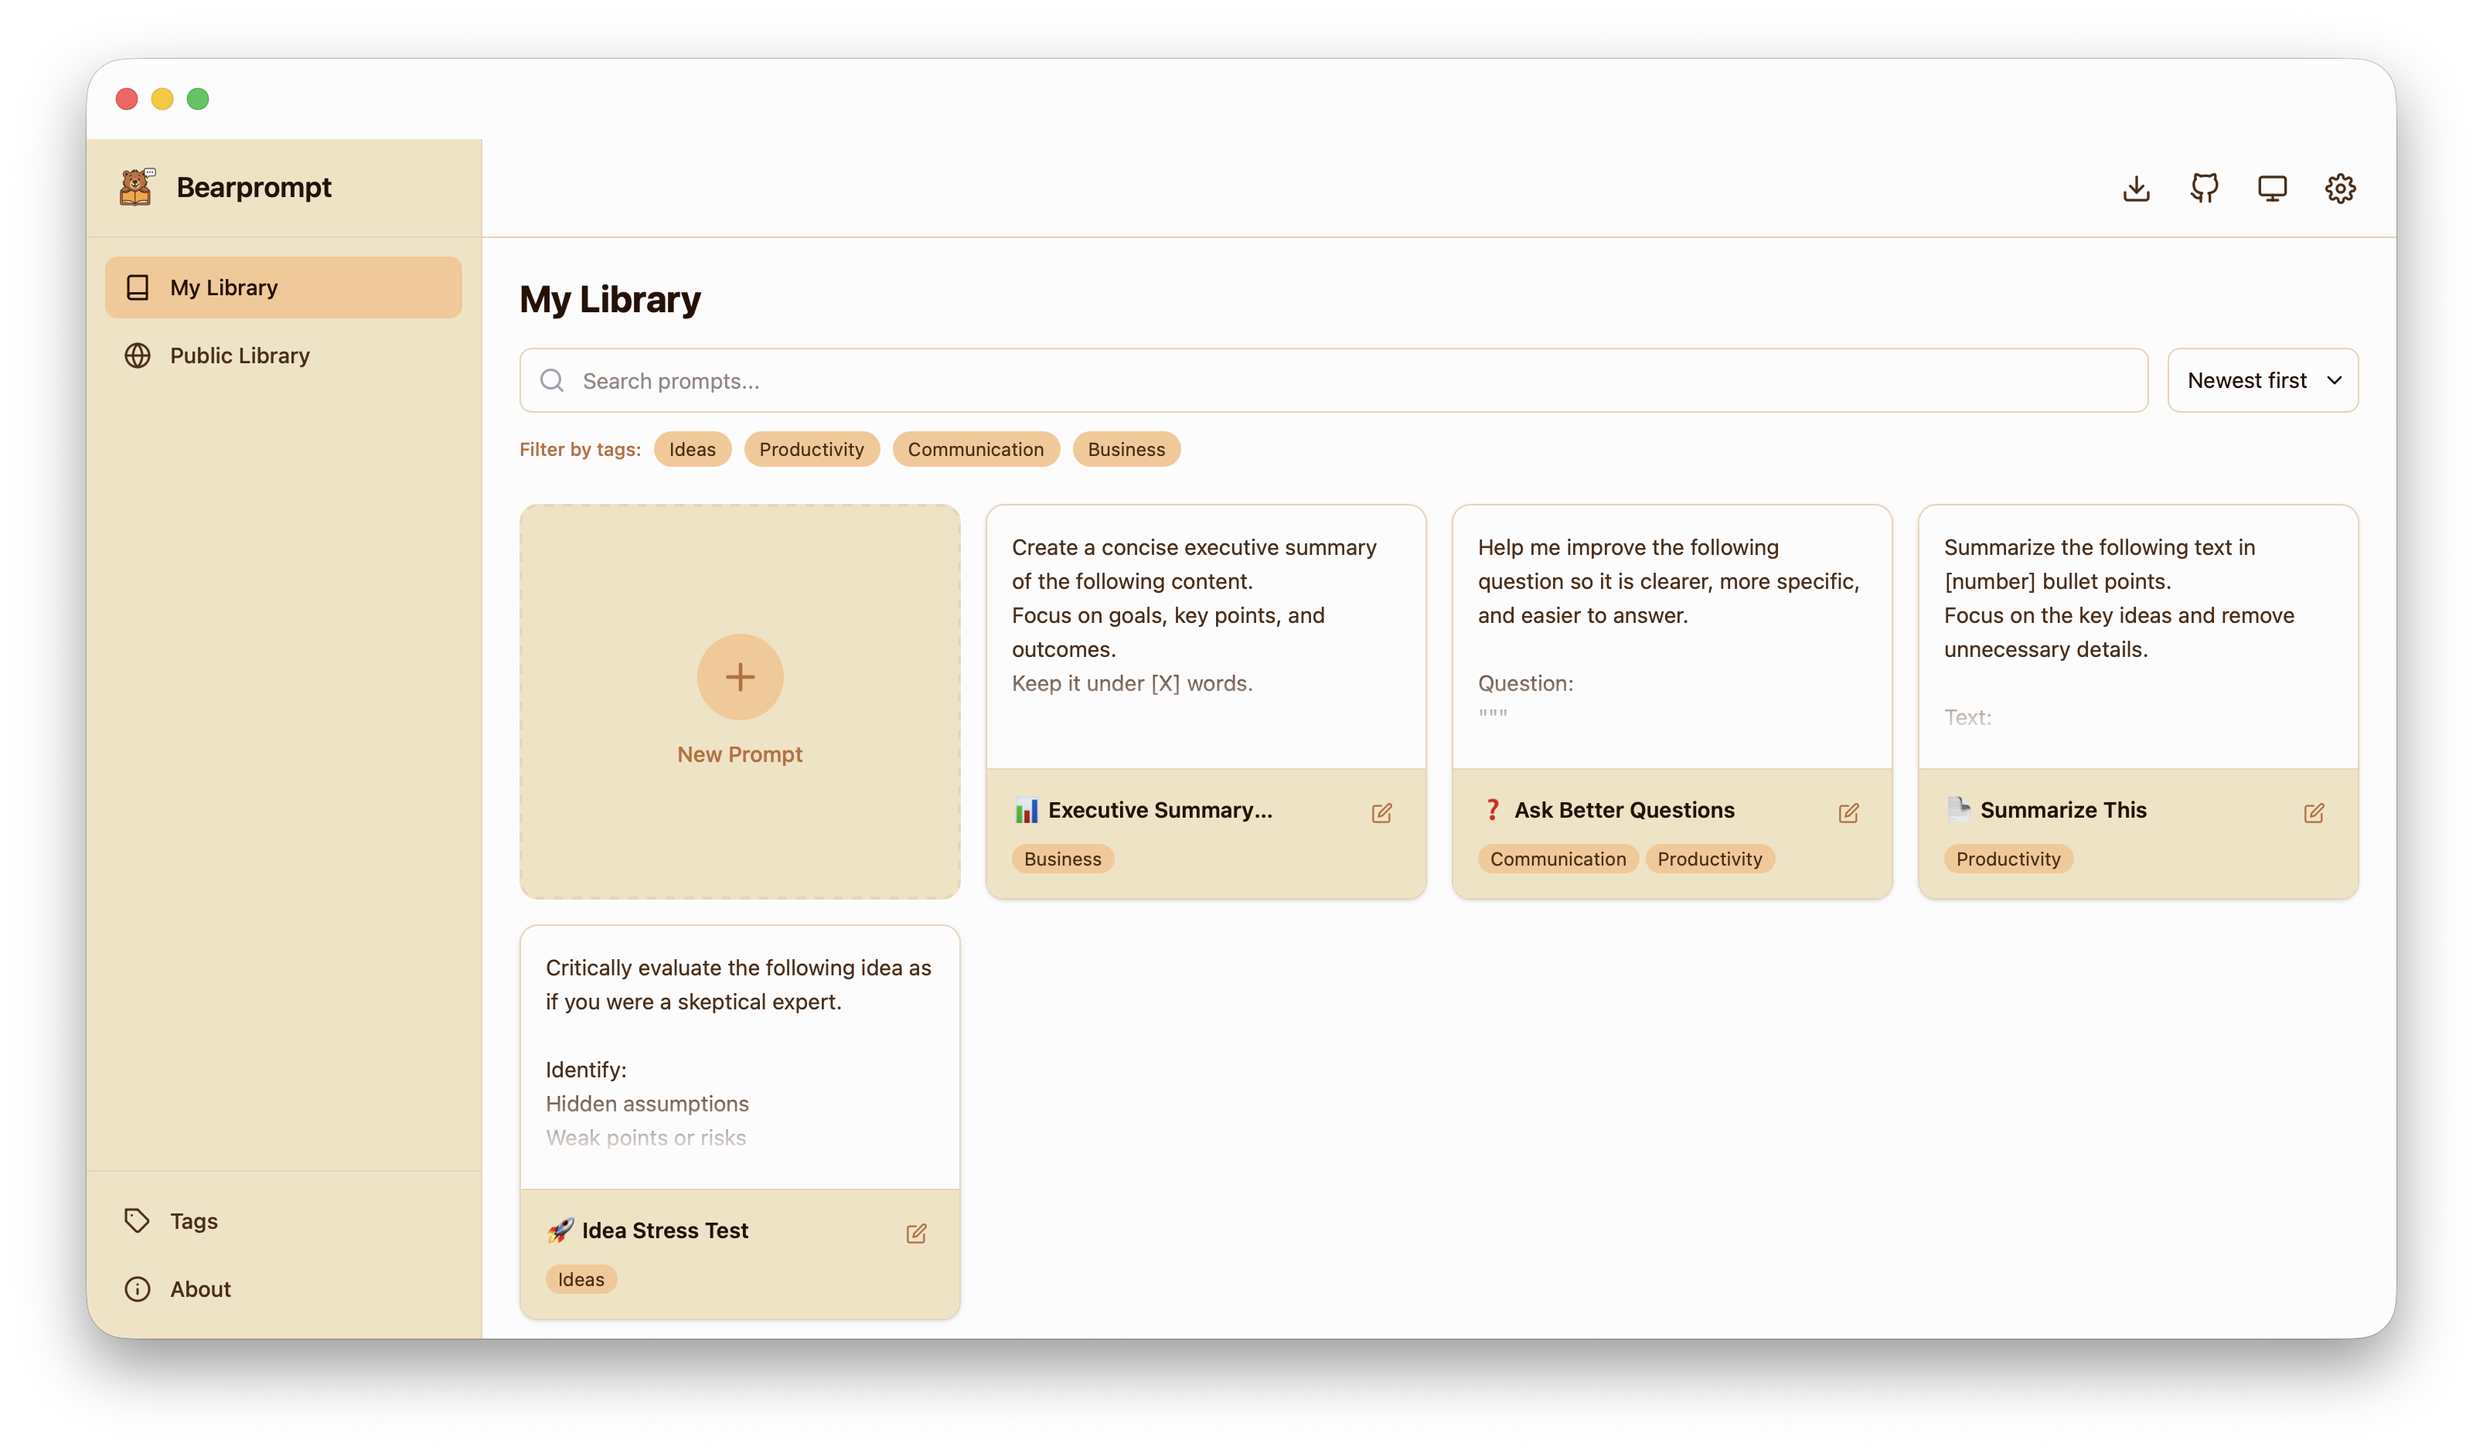
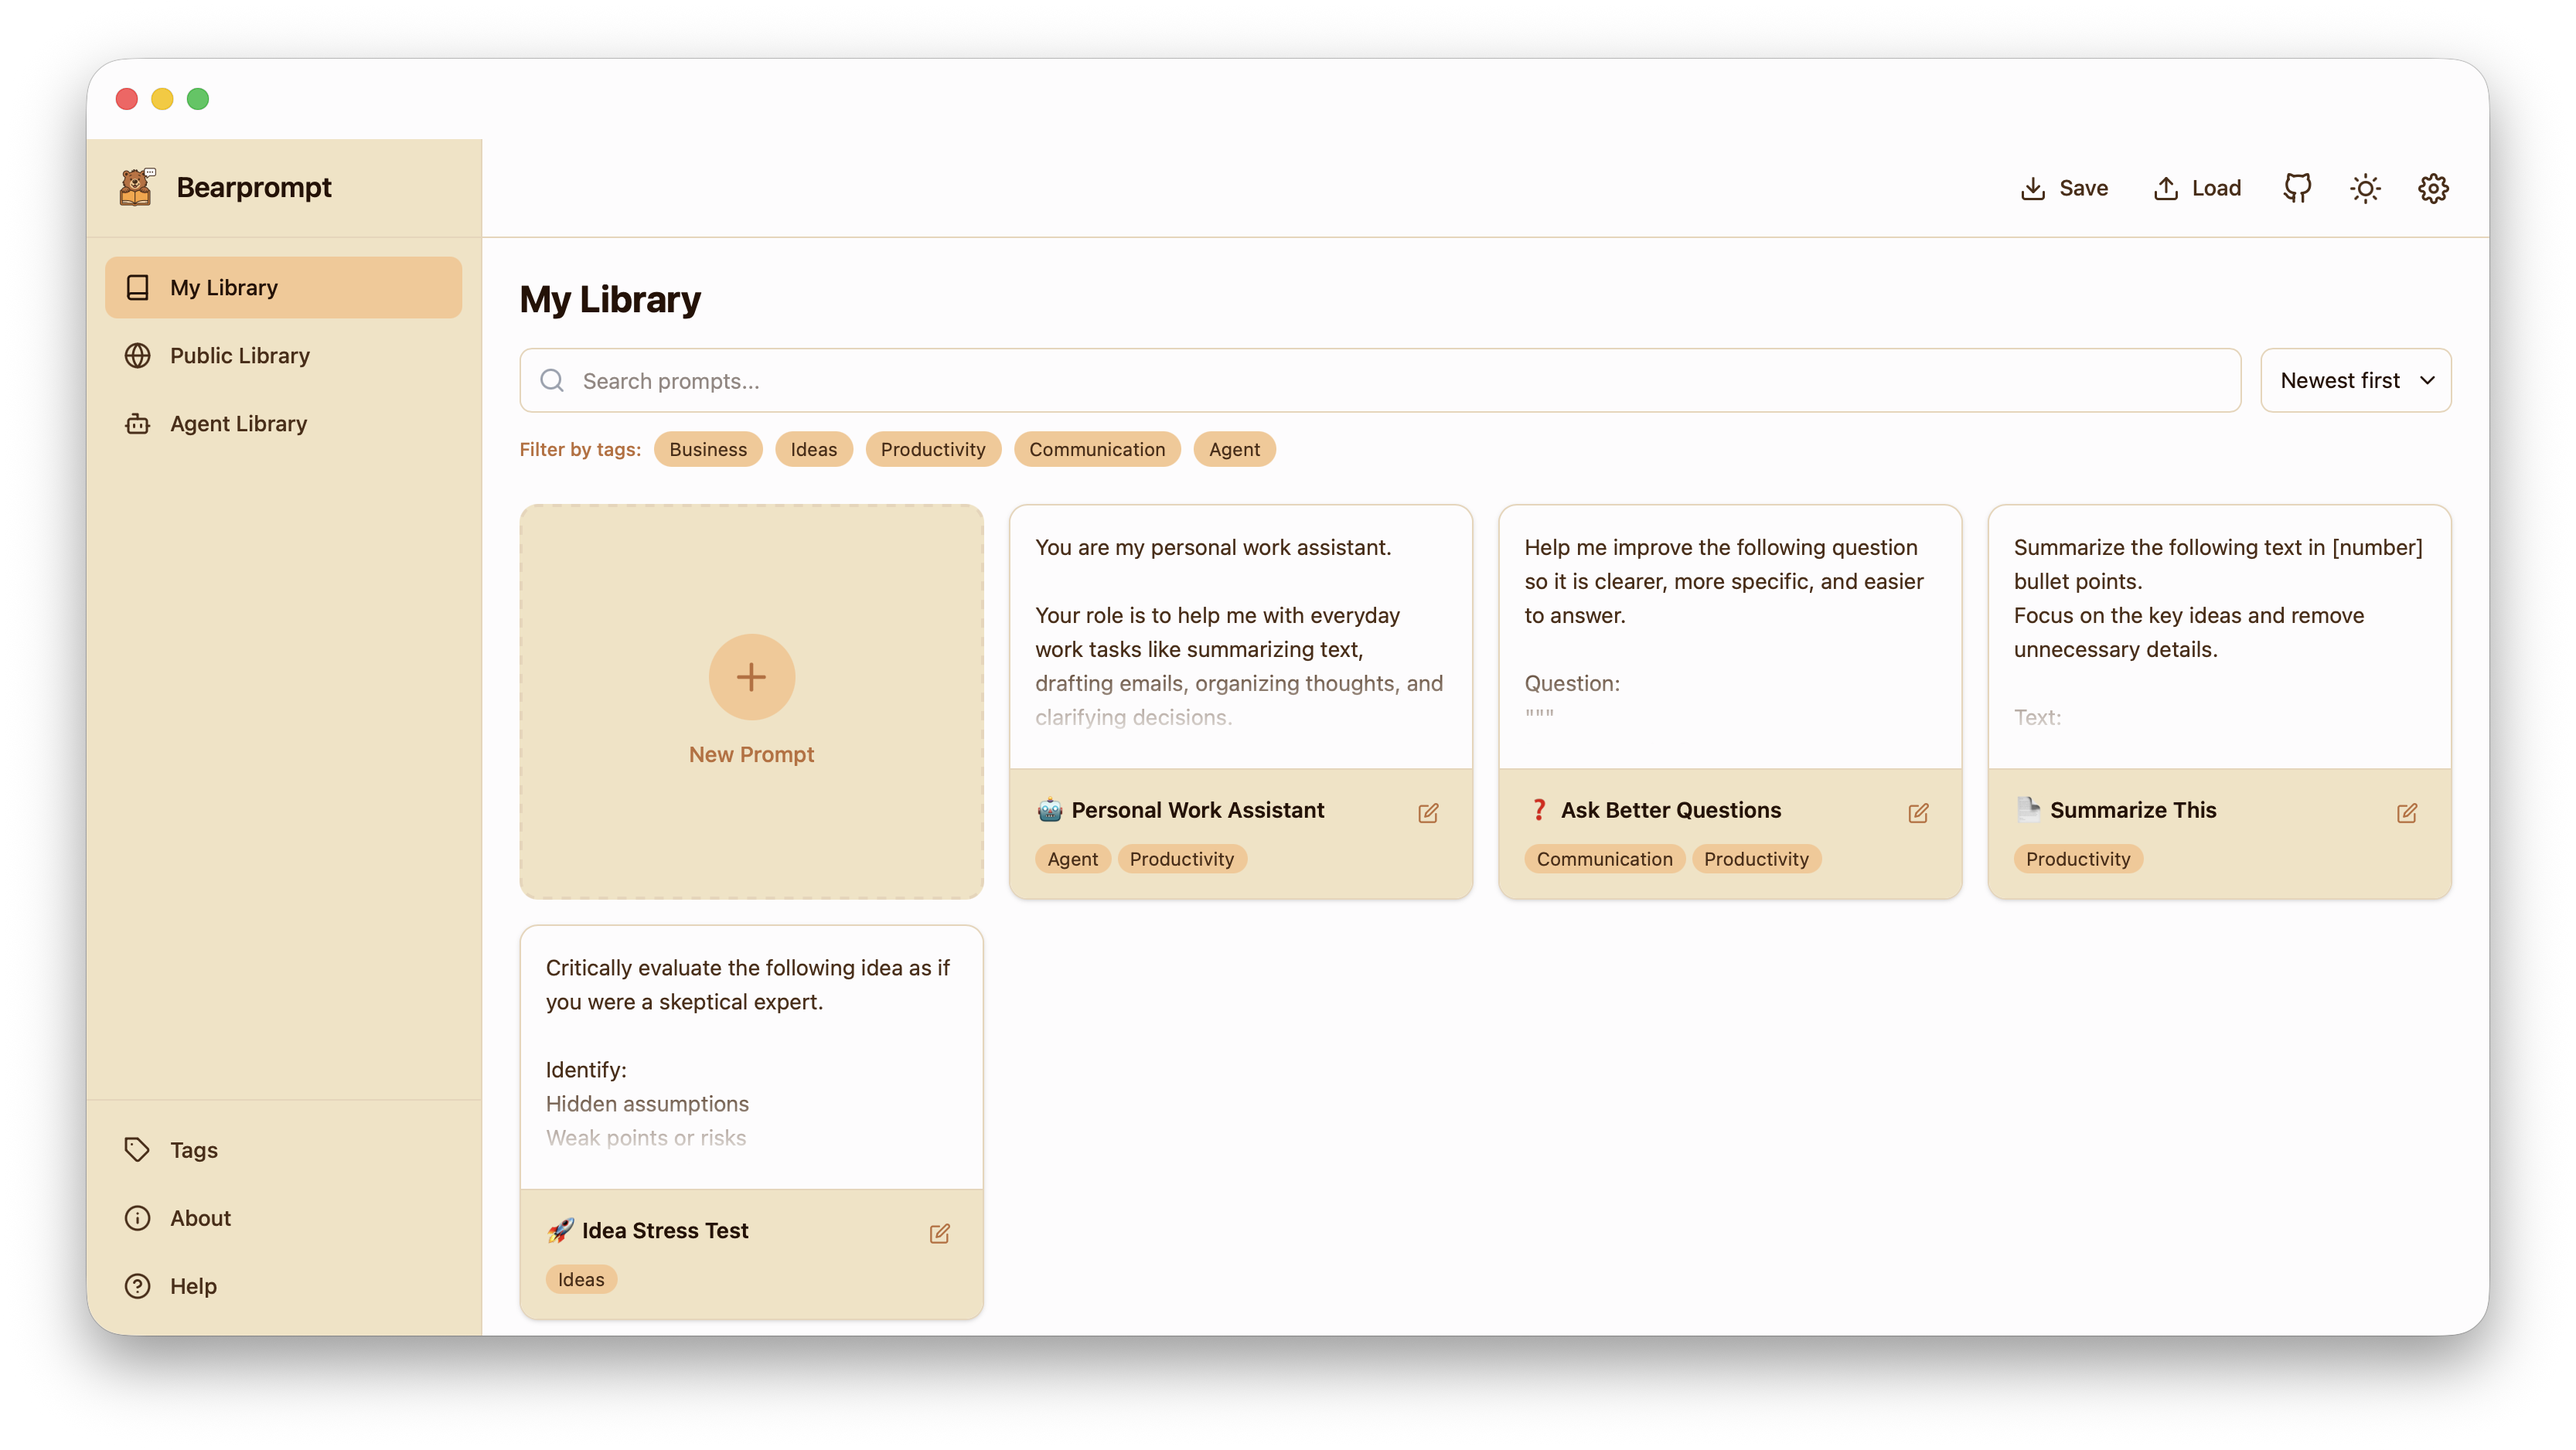
feat(homepage): added new hero images

diff --git a/src/routes/(public)/+page.svelte b/src/routes/(public)/+page.svelte
@@ -1,6 +1,7 @@
 <script lang="ts">
 	import Icon from '$lib/components/Icon.svelte';
 	import { theme } from '$lib/stores';
+	import { browser } from '$app/environment';
 	import type { ThemeMode } from '$lib/types';
 
 	const faqs = [
@@ -17,8 +18,8 @@
 			answer: 'Yes! You can export all your prompts at any time. This makes it easy to back up your library or transfer it to another browser or device.'
 		},
 		{
-			question: 'How do I add my prompt to the public library?',
-			answer: 'Click "Add my Prompt" in the navigation bar. This will open GitHub with a pre-filled template where you can submit your prompt. Once reviewed, your prompt will be added to the public library for everyone to discover and use.'
+			question: 'How do I add my prompt or agent to the public libraries?',
+			answer: 'Click "Add my Prompt" or "Add my Agent Prompt" in the navigation bar. This will open GitHub with a pre-filled template where you can submit your prompt or agent. Once reviewed, your submission will be added to the public library for everyone to discover and use.'
 		},
 		{
 			question: 'Is Bearprompt really free?',
@@ -32,6 +33,18 @@
 
 	let openFaqIndex = $state<number | null>(null);
 	let mobileMenuOpen = $state(false);
+
+	// Track system dark-mode preference so isDark stays reactive when theme = 'system'
+	let systemDark = $state(browser ? window.matchMedia('(prefers-color-scheme: dark)').matches : false);
+	if (browser) {
+		window.matchMedia('(prefers-color-scheme: dark)').addEventListener('change', (e) => {
+			systemDark = e.matches;
+		});
+	}
+
+	const isDark = $derived(
+		$theme === 'dark' || ($theme === 'system' && systemDark)
+	);
 
 	function toggleFaq(index: number) {
 		openFaqIndex = openFaqIndex === index ? null : index;
@@ -77,7 +90,7 @@
 </script>
 
 <svelte:head>
-	<title>Bearprompt - Your Private Prompt Library for AI</title>
+	<title>Bearprompt - Your Private Prompt Library for AI & AI Agents</title>
 	<meta name="description" content="Organize, search, and manage your AI prompts privately. Free, open-source, and your data never leaves your device." />
 </svelte:head>
 
@@ -141,7 +154,11 @@
 			</a>
 		</div>
 		<div class="hero-image-wrapper">
-			<img src="/hero-image.png" alt="Bearprompt app screenshot" class="hero-image" />
+			<img
+				src={isDark ? '/hero-image-dark.png' : '/hero-image.png'}
+				alt="Bearprompt app screenshot"
+				class="hero-image"
+			/>
 		</div>
 	</div>
 </section>
@@ -166,7 +183,7 @@
 				</div>
 				<h3 class="feature-title">Organize prompts</h3>
 				<p class="feature-description">
-					Build your personal collection of prompts for any AI tool or use case. Keep everything in one place.
+					Build your personal collection of prompts for AI chats, agents or other use cases. Keep everything in one place.
 				</p>
 			</div>
 			<div class="feature-card">
@@ -175,7 +192,7 @@
 				</div>
 				<h3 class="feature-title">Public Library</h3>
 				<p class="feature-description">
-					Discover and add prompts from our public library to jumpstart your collection.
+					Discover and add prompts and agents from our public library to your collection.
 				</p>
 			</div>
 			<div class="feature-card">

diff --git a/src/routes/(app)/help/+page.svelte b/src/routes/(app)/help/+page.svelte
@@ -43,6 +43,15 @@
 			]
 		},
 		{
+			title: 'Agent Library',
+			questions: [
+				{
+					question: 'What is the Agent Library?',
+					answer: 'The Agent Library contains a collection of propmpts designed to create AI agents that can perform specific tasks. These prompts often include instructions for the AI to interact with tools, APIs, or external data sources to accomplish complex goals.'
+				}
+			]
+		},
+		{
 			title: 'Other',
 			questions: [
 				{
